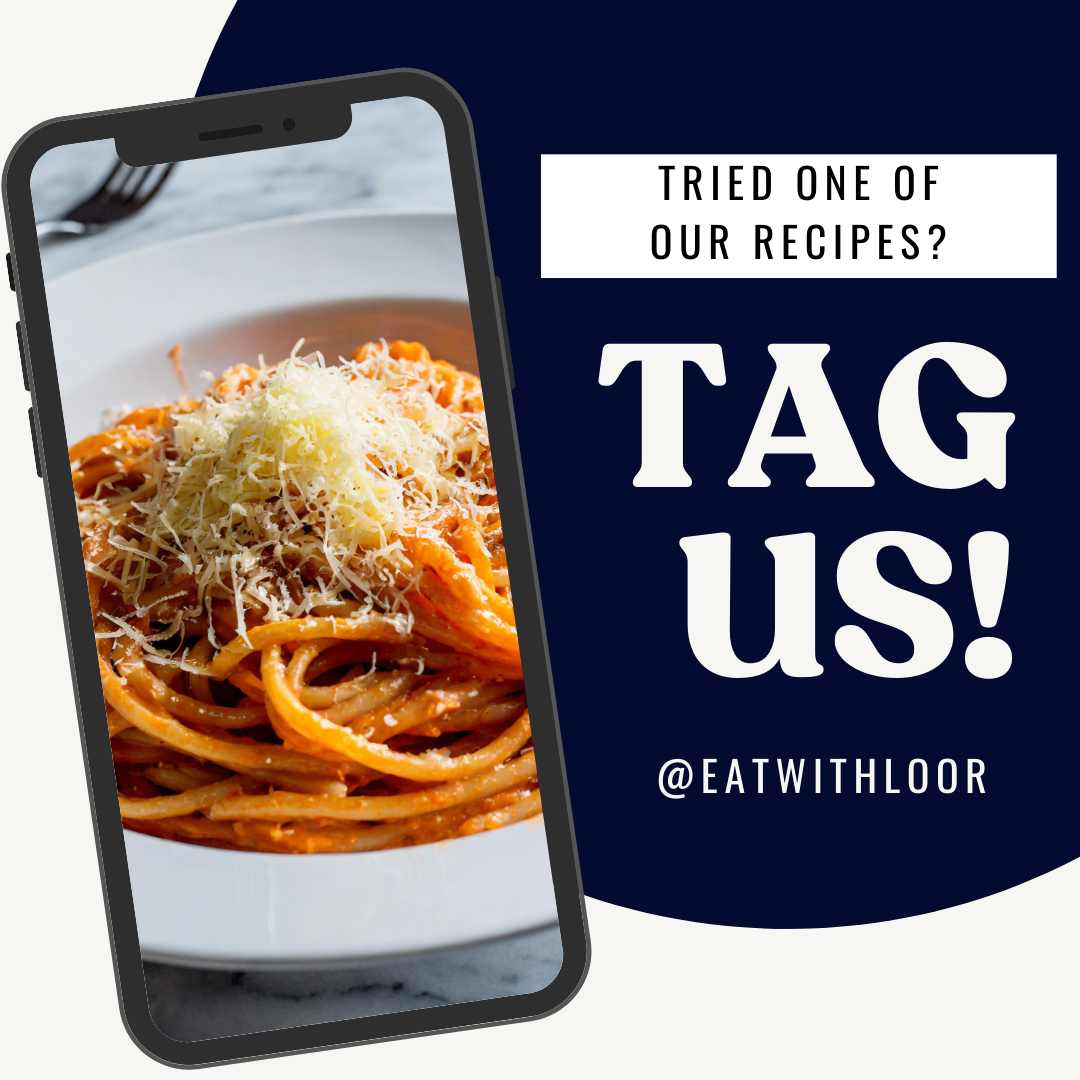
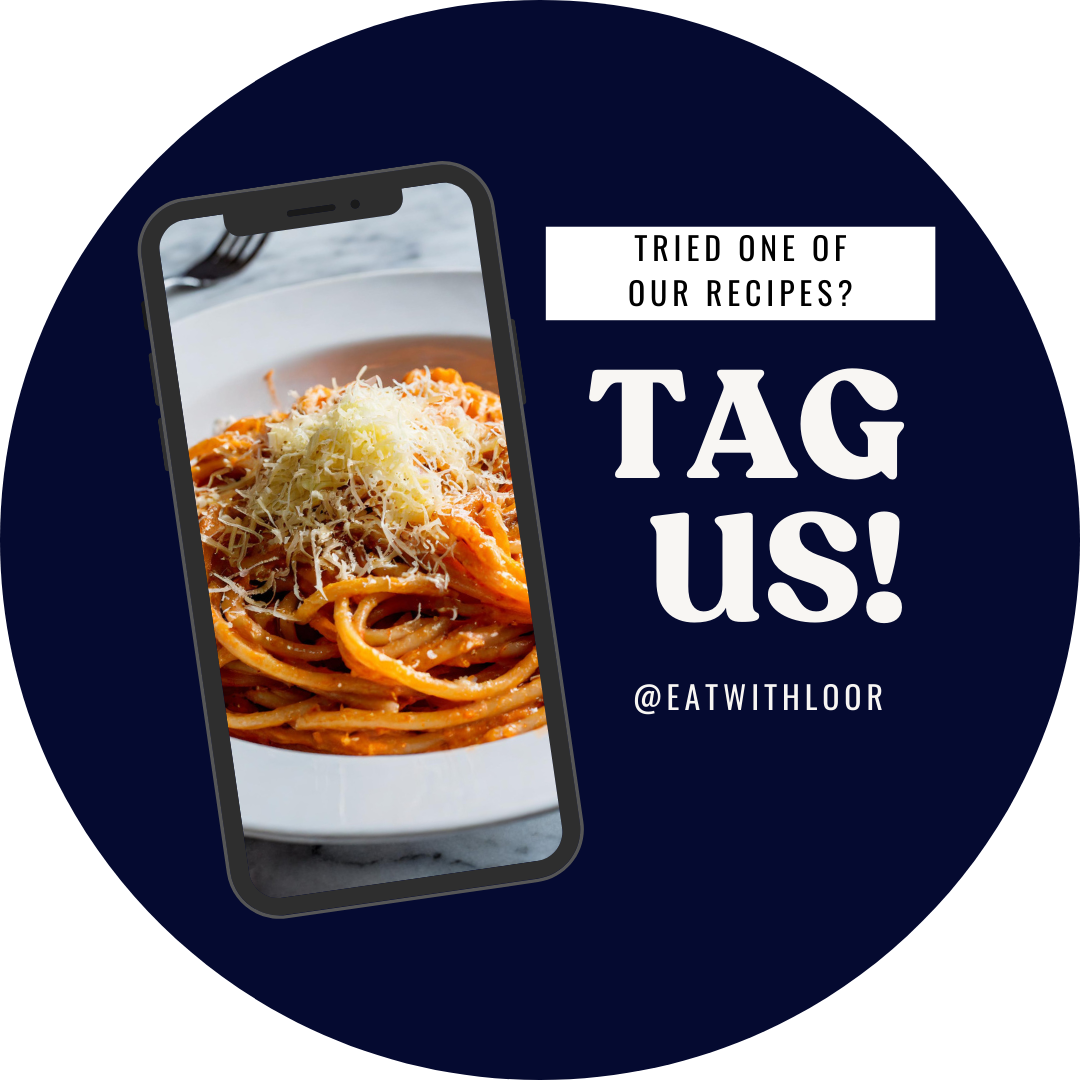
modifié :         css/style.css 	modifié :         images/tagus.png

diff --git a/css/style.css b/css/style.css
@@ -1413,16 +1413,20 @@ animation: tel 4s ease;
   .instafeed{
     display: block;
     position: absolute;
-    margin-top: 230dvw;
+    margin-top: 350dvw;
     left: 0;
     margin-left: 0;
     z-index: 10;
     background: #050a30;
+    width: 100%;
+    height: 41%;
   }
 .instafeed img{
-  width: 40dvw;
+  width: 60dvw;
   z-index: 10;
   top: 0;
   left: 0;
+  margin-top: 4dvw;
+  margin-left: 20dvw;
 }
 }
